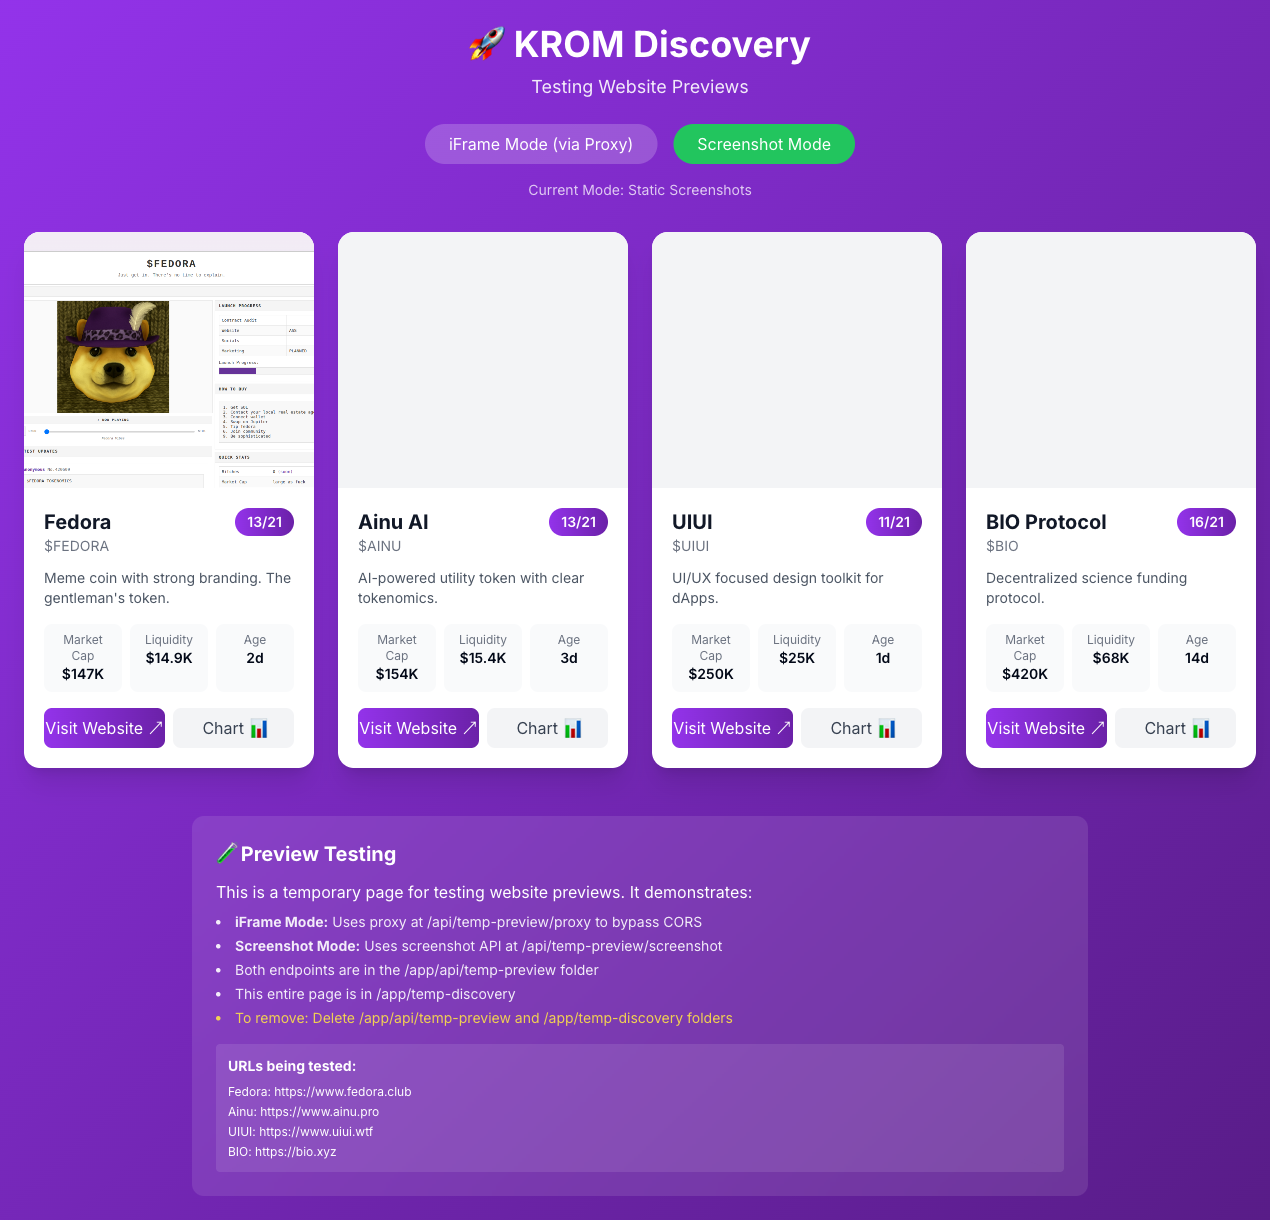
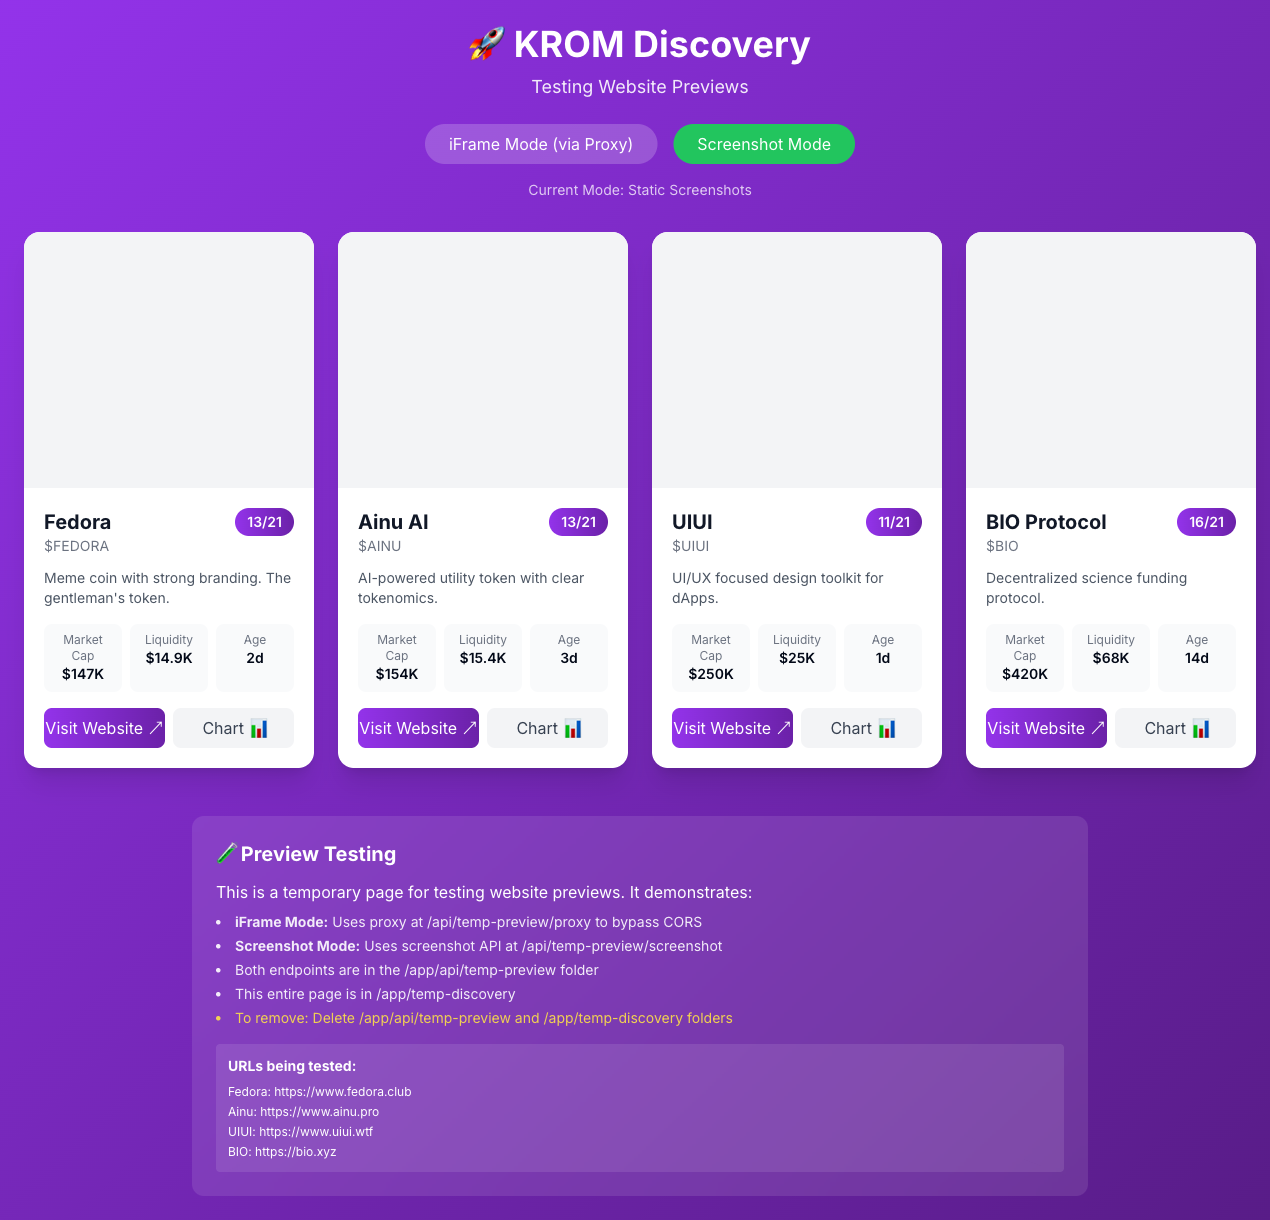
fix: switch to screenshot.guru service for better reliability

Changed region(s): [[0.0307, 0.1869, 0.1535, 0.3426], [0.1843, 0.2803, 0.215, 0.3738]]

diff --git a/app/api/temp-preview/screenshot/route.ts b/app/api/temp-preview/screenshot/route.ts
@@ -15,34 +15,46 @@ export async function GET(request: NextRequest) {
   }
 
   try {
-    // Use thum.io - completely free, no API key needed
-    // Add cache busting parameter to ensure unique screenshots
-    const cacheBuster = Date.now();
-    const thumUrl = `https://image.thum.io/get/width/1280/crop/800/noanimate/${targetUrl}?cb=${cacheBuster}`;
+    // Try using screenshot.guru which is free and doesn't require API key
+    const screenshotUrl = `https://screenshot.guru/screenshot?url=${encodeURIComponent(targetUrl)}&width=1280&height=800&fullpage=false`;
     
-    console.log('Fetching screenshot from thum.io for:', targetUrl);
-    console.log('Full thum.io URL:', thumUrl);
+    console.log('Fetching screenshot for:', targetUrl);
+    console.log('Screenshot service URL:', screenshotUrl);
     
-    // Fetch the image from thum.io server-side with no-cache headers
-    const imageResponse = await fetch(thumUrl, {
+    // Fetch the image from screenshot service
+    const imageResponse = await fetch(screenshotUrl, {
       headers: {
-        'Cache-Control': 'no-cache',
-        'Pragma': 'no-cache'
+        'User-Agent': 'Mozilla/5.0 (Windows NT 10.0; Win64; x64) AppleWebKit/537.36'
       }
     });
     
     if (!imageResponse.ok) {
-      throw new Error(`Thum.io returned ${imageResponse.status}`);
+      console.log(`Screenshot service returned ${imageResponse.status}, trying alternative...`);
+      
+      // Fallback to via.placeholder with website name
+      const siteName = new URL(targetUrl).hostname.replace('www.', '');
+      const placeholderUrl = `https://via.placeholder.com/1280x800/1e293b/ffffff?text=${encodeURIComponent(siteName)}`;
+      
+      const placeholderResponse = await fetch(placeholderUrl);
+      const placeholderBuffer = await placeholderResponse.arrayBuffer();
+      
+      return new NextResponse(placeholderBuffer, {
+        status: 200,
+        headers: {
+          'Content-Type': 'image/png',
+          'Cache-Control': 'public, max-age=300', // Cache placeholder for 5 minutes
+        },
+      });
     }
     
     // Get the image as a buffer
     const imageBuffer = await imageResponse.arrayBuffer();
     
-    // Return the actual image buffer with varied cache key based on URL
+    // Return the actual image buffer with caching
     return new NextResponse(imageBuffer, {
       status: 200,
       headers: {
-        'Content-Type': 'image/png',
+        'Content-Type': imageResponse.headers.get('content-type') || 'image/png',
         'Cache-Control': 'public, max-age=3600', // Cache for 1 hour
         'Vary': 'url', // Vary cache by URL parameter
       },
